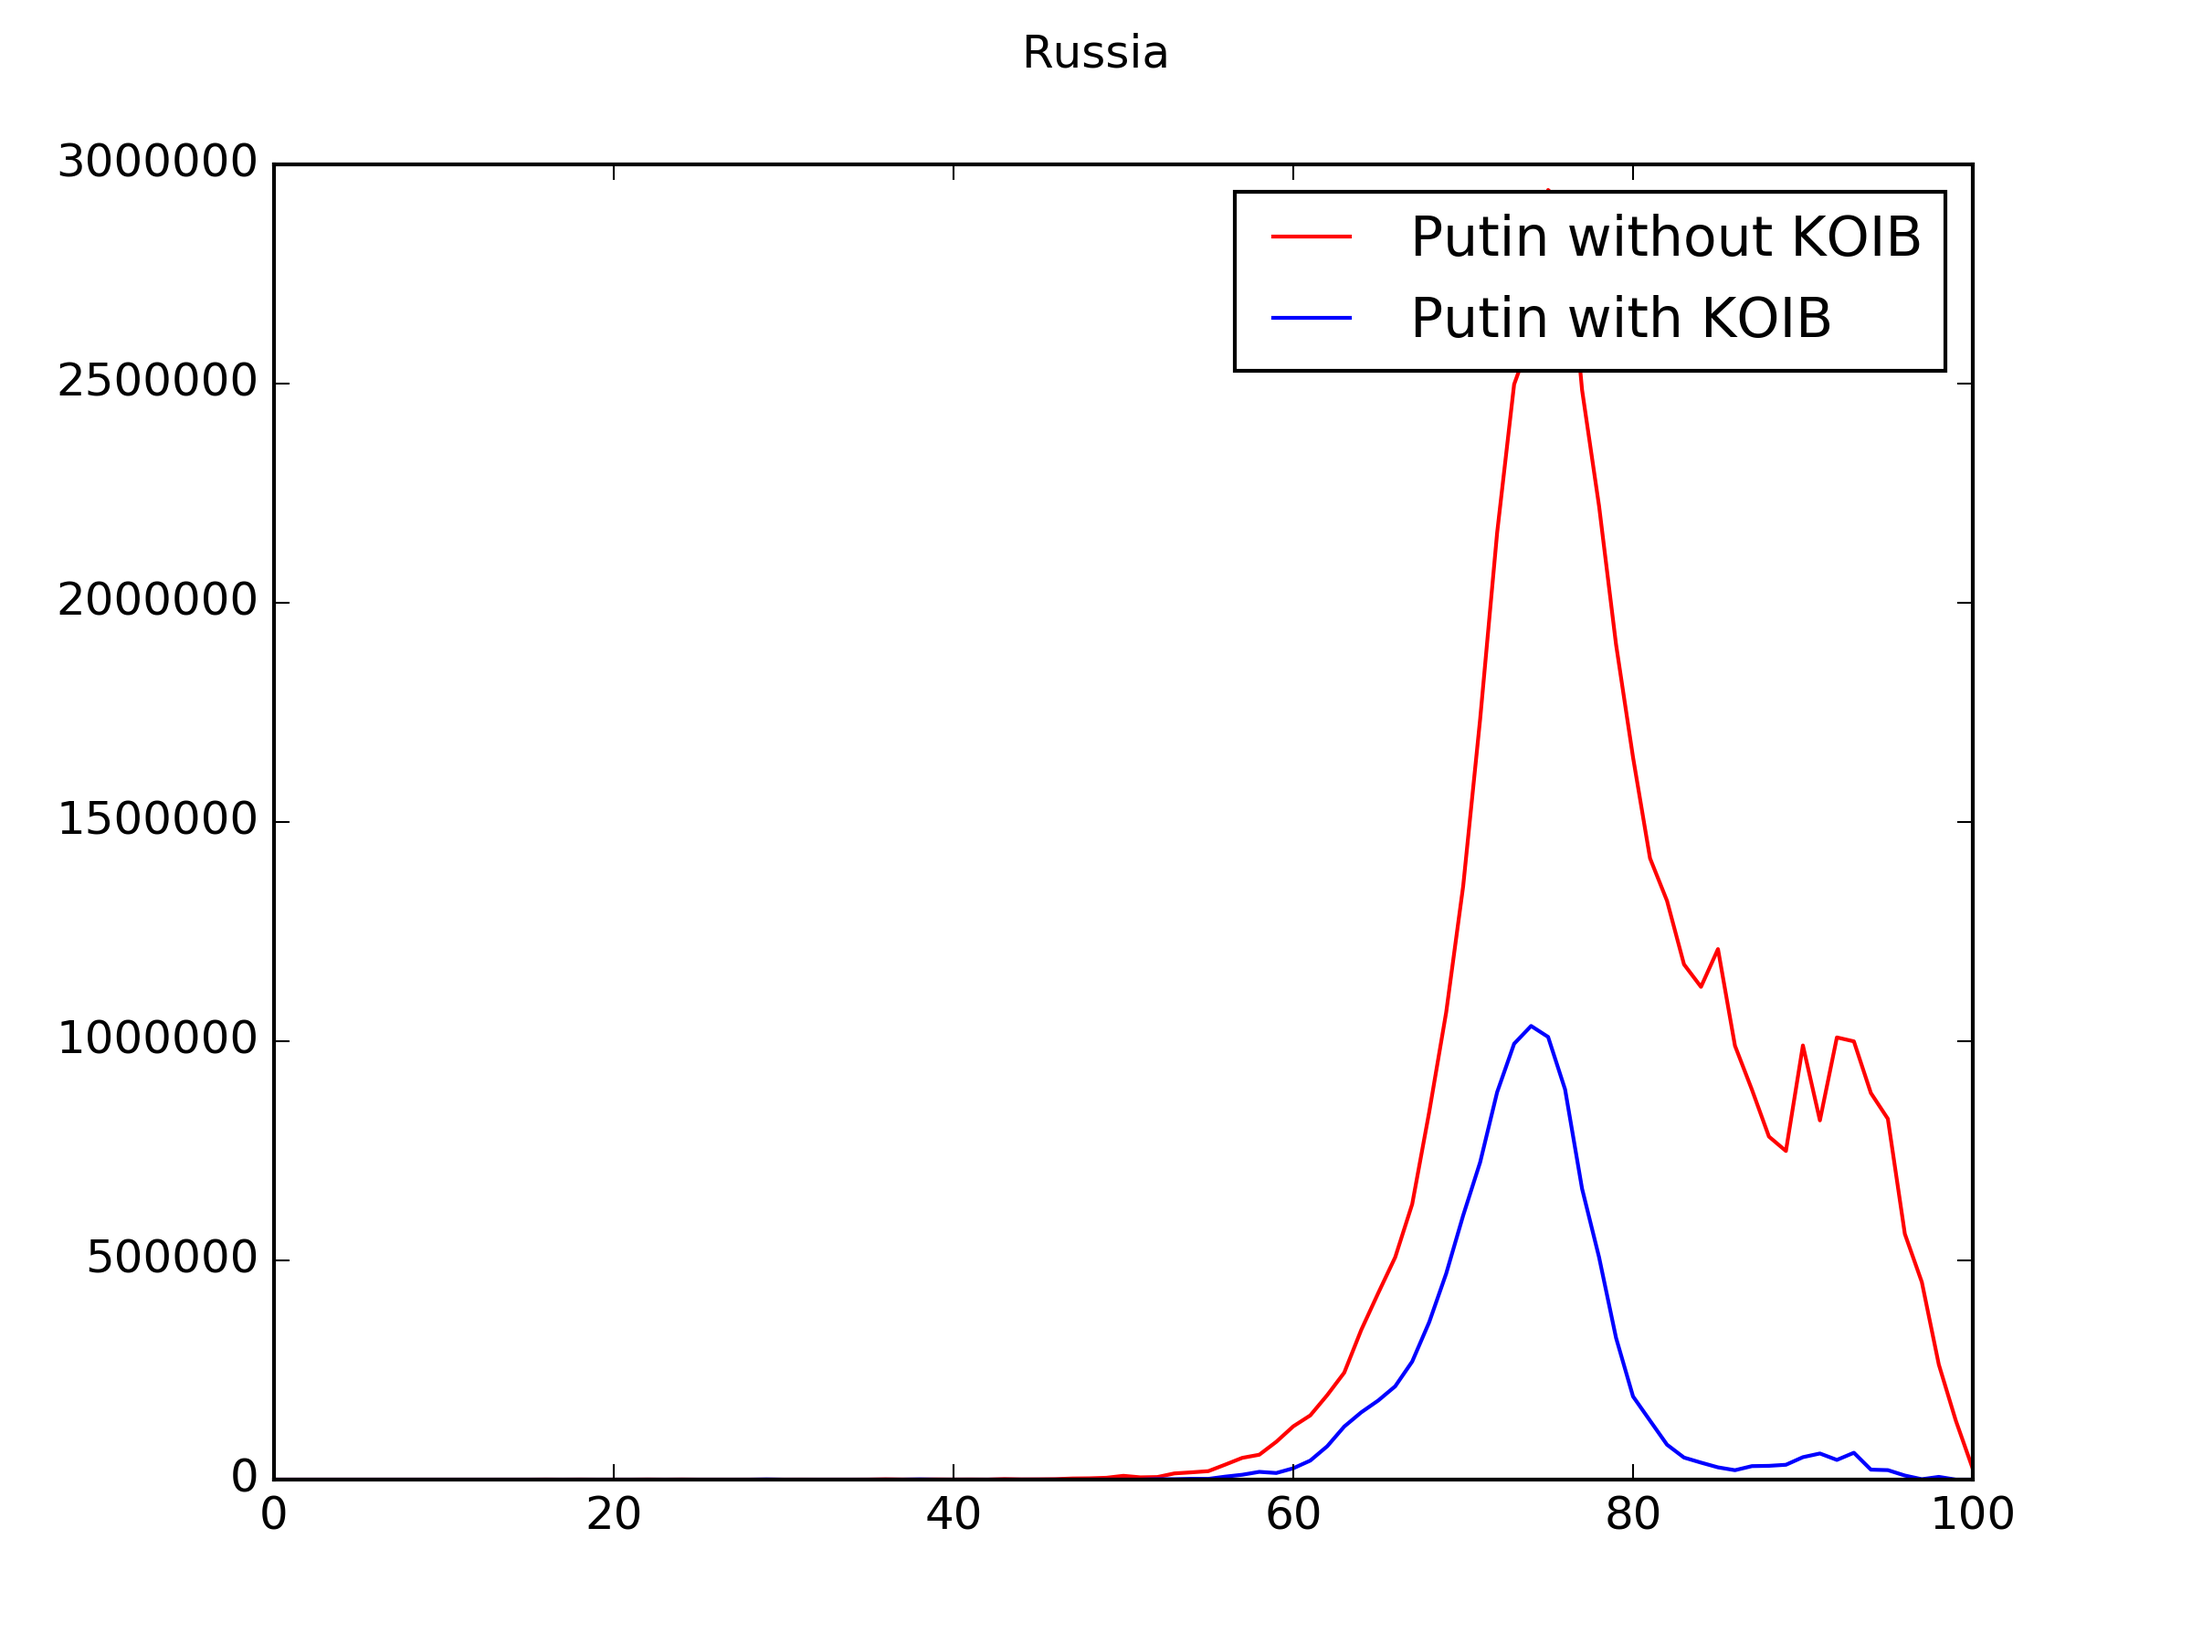
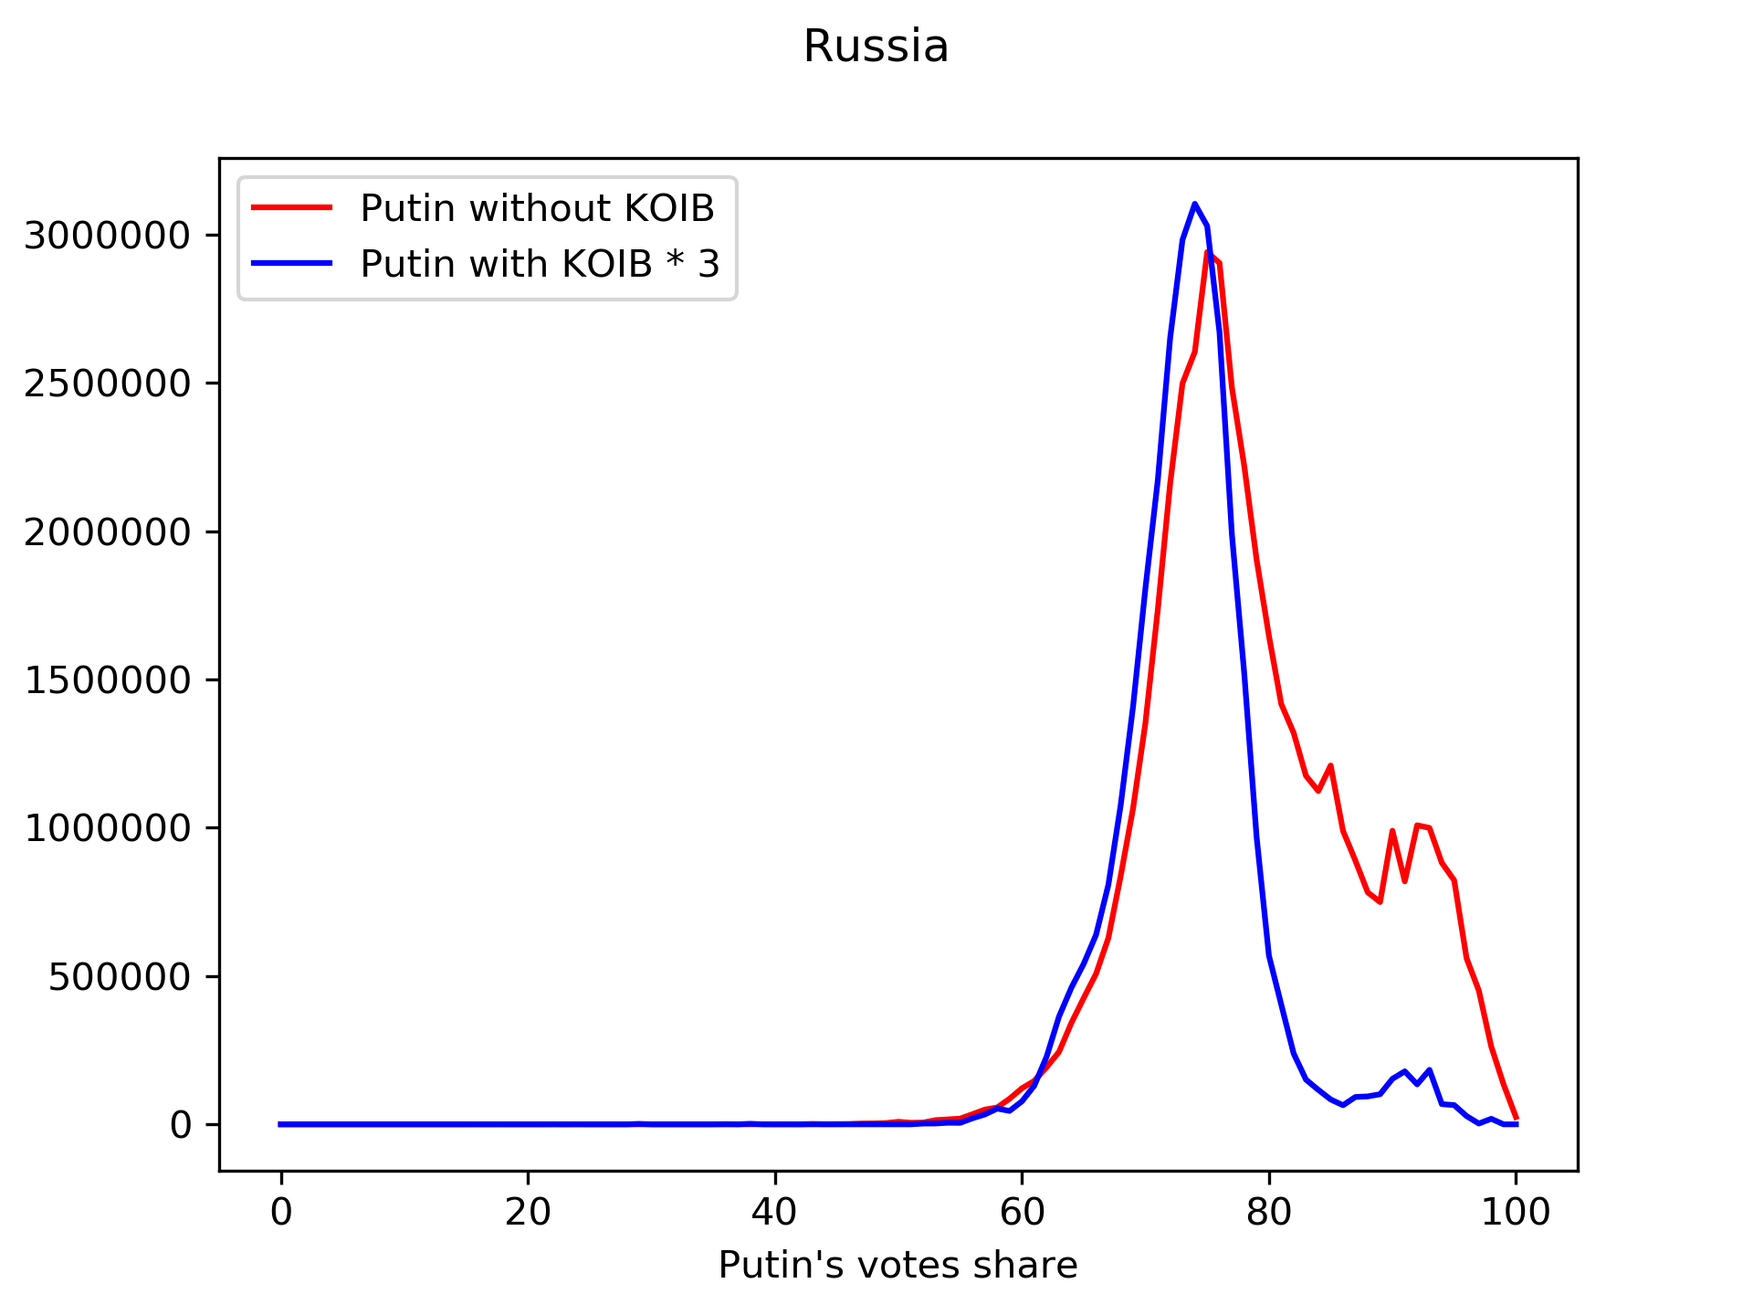
add data about KOIB's

diff --git a/russia2018/hist.py b/russia2018/hist.py
@@ -13,6 +13,8 @@ print("#Koibs: %d" % len(sKoibs))
 
 putinBins = [0]*101
 putinKoibBins = [0]*101
+putinCrimeaBins = [0]*101
+putinCrimeaKoibBins = [0]*101
 with open("table_227_level_3.tsv", "r") as f:
     next(f)
     for line in f:
@@ -30,9 +32,14 @@ with open("table_227_level_3.tsv", "r") as f:
             putinRatio = float(putin)/float(votes)
             putinBin = int(100.0 * putinRatio)
             if region + str(number) in sKoibs:
-                putinKoibBins[putinBin] += putin
+                putinKoibBins[putinBin] += 3*putin
             else:
                 putinBins[putinBin] += putin
+            if region == "Республика Крым":
+                if region + str(number) in sKoibs:
+                    putinCrimeaKoibBins[putinBin] += 15*putin
+                else:
+                    putinCrimeaBins[putinBin] += putin
 
 abins = []
 for i in range(101):
@@ -40,8 +47,20 @@ for i in range(101):
 
 plt.clf()
 plt.plot(abins, putinBins, color='red', label="Putin without KOIB")
-plt.plot(abins, putinKoibBins, color='blue', label="Putin with KOIB")
+plt.plot(abins, putinKoibBins, color='blue', label="Putin with KOIB * 3")
+plt.xlabel("Putin's votes share")
+plt.ylabel("Sum of #votes")
 plt.legend()
 plt.suptitle("Russia")
 plt.savefig("pAll.png", dpi=300)
+plt.show()
+
+plt.clf()
+plt.plot(abins, putinCrimeaBins, color='red', label="Putin without KOIB")
+plt.plot(abins, putinCrimeaKoibBins, color='blue', label="Putin with KOIB * 15")
+plt.xlabel("Putin's votes share")
+plt.ylabel("Sum of #votes")
+plt.legend()
+plt.suptitle("Crimea")
+plt.savefig("pCrimea.png", dpi=300)
 plt.show()
